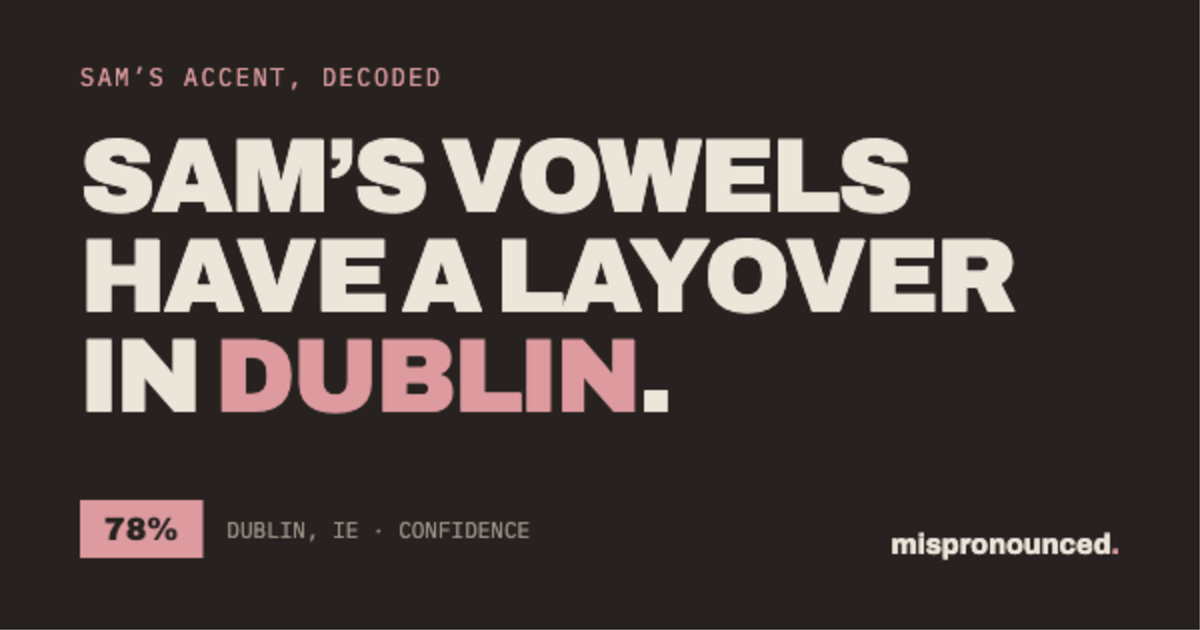
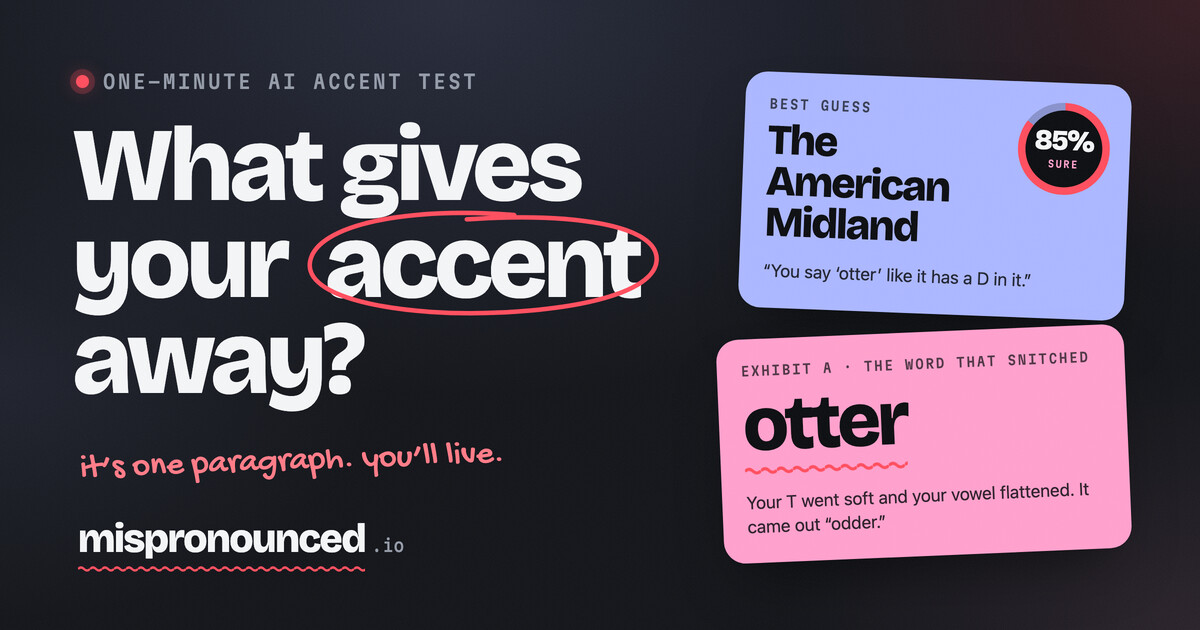
Mispronounced: bring the case file up to the current product
The case file still described the July app: "an AI dialect coach", a tip jar,
and no paywall on your own report. Since 2026-08-25 the rule is one flat price,
$3 unlocks your run, with the first run free; the tip jar is gone.

- Hero, tagline and copy rewritten around the 2026-09-13 brand line, "What
  gives your accent away?": read, ramble, get read; free verdict; the $3 full
  file; the season-two pages (impersonation kit, trap sentence, b-sides, charm
  file); /atlas and its Hall of Records; the two-pass listen-then-structure
  pipeline.
- New 1200x630 OG card in the app's current "booth" look (same path, updated
  in place), and the case file now uses it for og:image instead of the site
  default.
- Six phone screenshots of the live app: home, the verdict, the markup, the
  impersonation kit, the trap sentence and the atlas. The report shots come
  from the public /sample page, which is my own voice.
- Musings: the honesty fix (no city on a country-level finding) and the
  paywall collapsing to one rule.
- Home card copy and tag updated; sitemap lastmod bumped for both pages.
- The title no longer overflows a 390px phone (smaller clamp floor, this page
  only).

diff --git a/apps/mispronounced.html b/apps/mispronounced.html
@@ -4,15 +4,15 @@
 <meta charset="utf-8" />
 <meta name="viewport" content="width=device-width, initial-scale=1" />
 <title>Mispronounced — case file · naveed.io</title>
-<meta name="description" content="Mispronounced — read one short paragraph into your phone and an AI dialect coach breaks down your accent." />
+<meta name="description" content="Mispronounced — a one-minute AI accent test. Read one short paragraph, answer one nosy question, and an AI with very good ears tells you what gives your accent away." />
 <link rel="icon" href="../assets/favicon.svg" type="image/svg+xml" />
 <meta property="og:type" content="website" />
 <meta property="og:url" content="https://naveed.io/apps/mispronounced.html" />
-<meta property="og:title" content="Mispronounced — an AI dialect coach · naveed.io" />
-<meta property="og:description" content="Read one short paragraph into your phone. An AI phonetician breaks down your accent — region, blend, and the words that gave you away." />
-<meta property="og:image" content="https://naveed.io/assets/og.png" />
+<meta property="og:title" content="Mispronounced — what gives your accent away? · naveed.io" />
+<meta property="og:description" content="A one-minute AI accent test. Read one paragraph, answer one nosy question, and get a free verdict: a best-guess region and the exact word that snitched." />
+<meta property="og:image" content="https://naveed.io/assets/apps/mispronounced-og.jpg" />
 <meta name="twitter:card" content="summary_large_image" />
-<meta name="twitter:image" content="https://naveed.io/assets/og.png" />
+<meta name="twitter:image" content="https://naveed.io/assets/apps/mispronounced-og.jpg" />
 <link rel="preconnect" href="https://fonts.googleapis.com" />
 <link rel="preconnect" href="https://fonts.gstatic.com" crossorigin />
 <link href="https://fonts.googleapis.com/css2?family=Bricolage+Grotesque:opsz,wght@12..96,500;12..96,700;12..96,800&family=Instrument+Sans:wght@400;500;600&family=JetBrains+Mono:wght@400;500;700&display=swap" rel="stylesheet" />
@@ -33,48 +33,59 @@
 </nav>
 
 <header class="app-hero wrap">
-  <div class="app-crumb"><span class="hue">case file 04</span> · an AI dialect coach</div>
-  <h1 class="app-title">Mispronounced<span class="accent">.</span></h1>
-  <p class="app-tag">Read one short paragraph into your phone. An AI phonetician breaks down your accent — region, blend, and the exact words that gave you away.</p>
+  <div class="app-crumb"><span class="hue">case file 04</span> · a one-minute AI accent test</div>
+  <h1 class="app-title" style="font-size:clamp(44px, 11vw, 150px)">Mispronounced<span class="accent">.</span></h1>
+  <p class="app-tag">What gives your accent away? Read one short paragraph, answer one nosy question, and an AI with very good ears tells you — a best-guess region, your blend, and the exact words that snitched.</p>
   <div class="app-hero-cta">
     <span class="live-pill"><span class="d"></span>live · mispronounced.io</span>
-    <a class="btn hue-btn" href="https://mispronounced.io" target="_blank" rel="noopener">Get analyzed ↗</a>
+    <a class="btn hue-btn" href="https://mispronounced.io" target="_blank" rel="noopener">Analyze my accent ↗</a>
   </div>
 
   <div class="banner shot rise in">
-    <img src="../assets/apps/mispronounced-og.jpg" alt="Mispronounced — an accent, decoded" />
-    <span class="stamp">RECORD · LISTEN · STRUCTURE · REPORT</span>
+    <img src="../assets/apps/mispronounced-og.jpg" alt="The Mispronounced card: “What gives your accent away?” with the word accent circled in red pen, beside a lilac verdict ticket — The American Midland, 85% sure — and a pink exhibit card for the word otter" />
+    <span class="stamp">READ · RAMBLE · GET READ</span>
   </div>
 </header>
 
 <section class="app-sec wrap">
   <div class="kick"><span class="hue">§</span> what it is</div>
-  <h2>The party trick that reads your voice.</h2>
+  <h2>Sixty seconds of talking. One very confident verdict.</h2>
   <div class="lead-2">
     <div class="rise">
-      <p>You record two short clips — a diagnostic reading passage and a spontaneous answer — and an AI dialect coach writes you a genuine breakdown: <b>where your accent is from, what it's blended with,</b> and the specific words and sounds that gave you away.</p>
-      <p>It's part linguistics, part party trick. The report is written to be <b>playful</b> — it doesn't just classify you, it tells you a story about how you talk.</p>
+      <p>You read one short paragraph out loud. It looks innocent; every line is packed with the vowel traps that split one region from another. Then you answer one nosy question off the cuff, because <b>reading voices behave and rambling voices confess.</b></p>
+      <p>The verdict comes back on bright cards made to be screenshotted: a <b>best-guess place, with a confidence score it will defend,</b> one line your group chat will quote back at you, and the word that snitched first. The verdict is free.</p>
     </div>
     <div class="rise" style="transition-delay:.08s">
-      <p>The pipeline is the fun part. It runs in <b>two passes</b>: first a model <em>listens</em> to your audio free-form and writes a "phonetician's notebook," then a second, text-only pass turns that notebook into a structured, shareable result.</p>
-      <p>That split matters — I found that forcing a rigid output schema onto the listening step measurably <b>degrades</b> how well the model hears. Let it listen loosely, then structure it after.</p>
+      <p><b>$3 unlocks the full file</b> for that run: your blend by the percent, the passage marked up with every word that testified, a stat sheet ranked against every voice it has heard, the places it suspected and cleared, famous voices in your key, and field notes with a nerd layer underneath.</p>
+      <p>Then the <b>season-two pages</b>, mined from the same notes: an <b>impersonation kit</b> (an actor's cheat sheet for faking you), a <b>trap sentence</b> rigged against your habits to dare a friend with, <b>b-sides</b> (your voice as a drink, as weather, as a car), and a <b>charm file</b> — the page of the report that likes you back.</p>
     </div>
   </div>
 
+  <div class="phones">
+    <figure class="rise"><img src="../assets/apps/mispronounced-shot-1.jpg" loading="lazy" alt="The home page: “What gives your accent away?” with the word accent circled, a voice waveform, and Sign in with Google" /></figure>
+    <figure class="rise" style="transition-delay:.04s"><img src="../assets/apps/mispronounced-shot-2.jpg" loading="lazy" alt="The verdict: “You say ‘otter’ like it has a D in it,” a lilac card naming The American Midland at 85% sure, and the blend bar below" /></figure>
+    <figure class="rise" style="transition-delay:.08s"><img src="../assets/apps/mispronounced-shot-3.jpg" loading="lazy" alt="The markup: the reading passage with every word that gave the speaker away highlighted in pink" /></figure>
+    <figure class="rise" style="transition-delay:.12s"><img src="../assets/apps/mispronounced-shot-4.jpg" loading="lazy" alt="The impersonation kit: a fakeability score of 25 and numbered steps, starting with Anchor the R" /></figure>
+    <figure class="rise" style="transition-delay:.16s"><img src="../assets/apps/mispronounced-shot-5.jpg" loading="lazy" alt="The trap sentence: a pink card to read out loud, and the three words it is rigged to catch" /></figure>
+    <figure class="rise" style="transition-delay:.2s"><img src="../assets/apps/mispronounced-shot-6.jpg" loading="lazy" alt="The atlas: a world map glowing where voices point, above the Hall of Records — fastest read, most unhurried read, most musical voice" /></figure>
+  </div>
+
   <div class="feat-list">
-    <div class="f rise"><div class="n">01</div><h3>Two clips</h3><p>A scripted passage plus an off-the-cuff answer, recorded right in the browser — no upload, no setup.</p></div>
-    <div class="f rise" style="transition-delay:.05s"><div class="n">02</div><h3>Two-pass analysis</h3><p>Listen first, structure second. A free-form "notebook" pass, then a schema pass that turns it into the report.</p></div>
-    <div class="f rise" style="transition-delay:.1s"><div class="n">03</div><h3>Shareable result</h3><p>Every analysis gets an anonymous share link, so you can send your accent breakdown to the group chat.</p></div>
+    <div class="f rise"><div class="n">01</div><h3>Two passes</h3><p>Listen first, structure second. One model hears the raw audio and writes a free-form phonetician's notebook; a second, text-only pass turns the notebook into the report.</p></div>
+    <div class="f rise" style="transition-delay:.05s"><div class="n">02</div><h3>The atlas</h3><p>Every run lands on one map, anonymous by construction — no names, no audio, just where the vowels pointed. Plus a Hall of Records: fastest read, thickest accent, filler-word champion.</p></div>
+    <div class="f rise" style="transition-delay:.1s"><div class="n">03</div><h3>A card for the group chat</h3><p>Every verdict gets a link and a share card: the one-liner, the region, the blend. First name only, no audio, unlisted. The report stays yours; the card does the bragging.</p></div>
   </div>
 </section>
 
 <section class="app-sec wrap">
   <div class="kick"><span class="hue">§</span> my musings</div>
-  <h2>A weekend "what if" that stuck.</h2>
+  <h2>A party trick that had to learn some manners.</h2>
   <div class="musing rise">
-    <div class="q">I wanted to know if a model could actually hear an accent — not guess from text, but listen. Turns out: unnervingly well.</div>
-    <p>This one started as a curiosity about the <b>edges of what these models can do with raw audio</b>. The surprise wasn't that it worked — it was how much the <em>prompt structure</em> mattered. Ask it to fill in a form while listening and it goes deaf; let it ramble in a notebook first and it hears everything.</p>
-    <p>It's the smallest app on this page and probably the most fun to show someone. Everyone wants to know what their voice says about them. <b>Read the paragraph. Find out.</b></p>
+    <div class="q">A confident city is more dangerous than a wrong country.</div>
+    <p>This started as a curiosity about what these models can do with <b>raw audio</b>. The surprise was how much the shape of the prompt mattered. Ask the model to fill in a form while it listens and it goes half-deaf; let it ramble in a notebook first, then structure that notebook in a second pass, and it hears everything. It never transcribes, either. A transcript throws away the accent, which is the whole signal.</p>
+    <p>The hard part turned out to be honesty, not hearing. On a light accent the model picks a language on a hunch, then hears the sounds that support it — and a city stacked on that hunch reads as precision it doesn't have. Seven prompt revisions didn't fix it. What shipped is a rule: <b>the report can't turn a country-level finding into a city.</b> It's a very good ear, not a passport check, and it says so.</p>
+    <p>Money got simpler the same way. It launched with a tip jar, then grew credits, three-packs and pass links. In August I deleted all of it for one rule: <b>$3 unlocks your run</b>, and you can't start a new one while an unpaid one is sitting there. That makes the first run free without a special case. Three hundred lines lighter, and nothing to explain.</p>
+    <p>It's still the app I most like showing someone. Everyone wants to know what their voice gives away. <b>Read the paragraph. Find out.</b></p>
   </div>
 </section>
 
@@ -87,24 +98,26 @@
       <span class="url">mispronounced.io</span>
     </div>
     <div class="tryit-body">
-      <p>Public app — sign in with Google, allow the mic, and you're off. Results are never locked; there's a tip jar if you like it, but no paywall on your own report.</p>
+      <p>Public app, on a phone or a laptop. Sign in with Google, allow the mic, and talk for about a minute. The verdict is free; $3 unlocks the full file for that run. Your recording and email stay private.</p>
       <ol class="steps">
         <li>Open <b><a href="https://mispronounced.io" target="_blank" rel="noopener">mispronounced.io</a></b> and sign in with Google.</li>
         <li>Allow microphone access when your browser asks.</li>
-        <li>Record the <b>reading passage</b>, then a short <b>spontaneous answer.</b></li>
-        <li>Wait a moment for the analysis, then read (and share) your report.</li>
+        <li>Read the <b>paragraph</b> out loud, then answer the <b>nosy question</b> off the cuff.</li>
+        <li>Get your <b>free verdict</b>. Unlock the full file if you want the receipts, or just send the card to the group chat.</li>
       </ol>
+      <p>Not ready to talk? The <a href="https://mispronounced.io/sample" target="_blank" rel="noopener">sample report</a> is my own voice with every page unlocked, and <a href="https://mispronounced.io/atlas" target="_blank" rel="noopener">the atlas</a> shows everyone else's.</p>
     </div>
   </div>
 
   <div class="kick" style="margin-top:44px"><span class="hue">§</span> under the hood</div>
   <div class="stack">
     <span class="s"><span class="dot">◆</span>Rails 8 + Hotwire</span>
-    <span class="s"><span class="dot">◆</span>Gemini · multimodal audio</span>
+    <span class="s"><span class="dot">◆</span>Gemini · listens to raw audio</span>
     <span class="s"><span class="dot">◆</span>Solid Queue jobs</span>
     <span class="s"><span class="dot">◆</span>MediaRecorder (browser)</span>
-    <span class="s"><span class="dot">◆</span>Postgres + ActiveStorage</span>
-    <span class="s"><span class="dot">◆</span>Stripe · tip jar</span>
+    <span class="s"><span class="dot">◆</span>Postgres + Active Storage</span>
+    <span class="s"><span class="dot">◆</span>Stripe Checkout · $3 unlock</span>
+    <span class="s"><span class="dot">◆</span>Postmark</span>
     <span class="s"><span class="dot">◆</span>Fly.io</span>
   </div>
 </section>

diff --git a/index.html b/index.html
@@ -318,13 +318,13 @@
     <!-- Mispronounced -->
     <a class="card spot rise" style="--hue: var(--mis)" href="apps/mispronounced.html">
       <div class="poster shot">
-        <img src="assets/apps/mispronounced-og.jpg" alt="Mispronounced — an accent, decoded" loading="lazy" />
-        <span class="tag">record · analyze · roast</span>
+        <img src="assets/apps/mispronounced-og.jpg" alt="Mispronounced — what gives your accent away?" loading="lazy" />
+        <span class="tag">read · ramble · get read</span>
       </div>
       <div class="card-body">
         <div class="card-head"><span class="name">Mispronounced</span></div>
-        <div class="kind">An AI dialect coach for your accent</div>
-        <p class="desc">Read one short paragraph into your phone. An AI phonetician breaks down your accent — region, blend, and the exact words that gave you away.</p>
+        <div class="kind">A one-minute AI accent test · mispronounced.io</div>
+        <p class="desc">What gives your accent away? Read one short paragraph, answer one nosy question, and get a free verdict — a best-guess region and the word that snitched. $3 unlocks the full file: your blend, every receipt, an impersonation kit, and a trap sentence to dare your friends with.</p>
         <span class="open">open case file <span class="arw">→</span></span>
       </div>
     </a>
